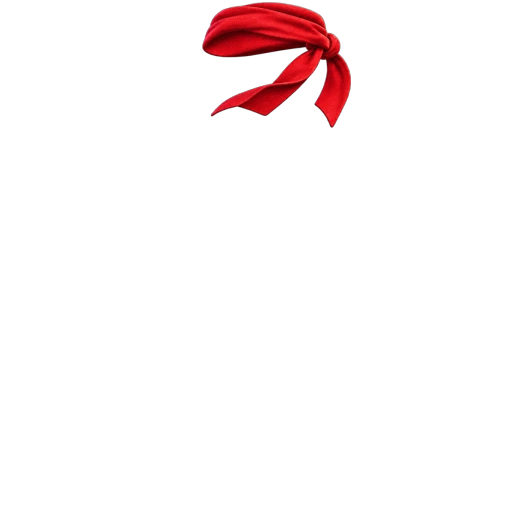
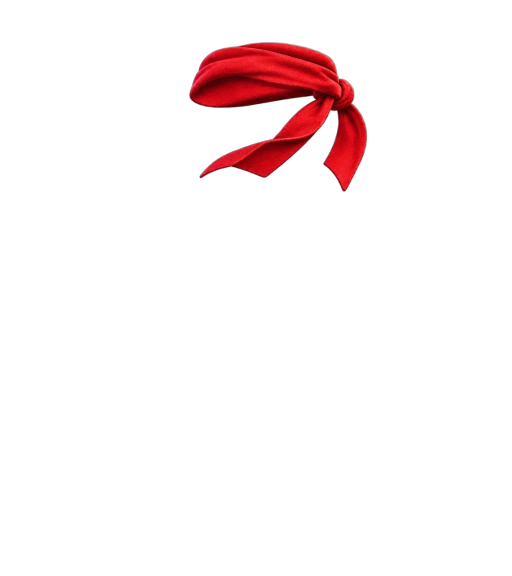
fix: render full-size hats on 512x576 canvas with 64px headroom

Changed region(s): [[0.375, 0.0, 0.7188, 0.3438]]

diff --git a/src/ui.tsx b/src/ui.tsx
@@ -123,7 +123,7 @@ export const PIGEON_SKIN_COLORS: Record<string, string> = {
   "iridescent-oil-slick": "#5e5a67", "skin-18": "#5e5a67", "18": "#5e5a67",
 };
 
-const ASSET_V = "?v=15";
+const ASSET_V = "?v=16";
 
 export function resolveSkinSrc(skin?: string | null): string {
   if (!skin || skin === "common" || skin === "default") {

diff --git a/src/style.css b/src/style.css
@@ -638,6 +638,8 @@ button:disabled {
 
 .pigeon-layer.layer-hat {
   z-index: 60;
+  top: -12.5%;
+  height: 112.5%;
 }
 
 .pigeon-layer.layer-burst {

diff --git a/scripts/build-pigeon-assets.py b/scripts/build-pigeon-assets.py
@@ -54,12 +54,12 @@ EYES_MAPPING = {
 }
 
 
-def save_rgba_webp(rgba: np.ndarray, out_path: Path):
-    """Сохраняет 512x512 RGBA массив в WebP без порчи матовой альфы от rembg."""
+def save_rgba_webp(rgba: np.ndarray, out_path: Path, size: tuple[int, int] = TARGET_SIZE):
+    """Сохраняет RGBA массив в WebP без порчи матовой альфы от rembg."""
     out_path.parent.mkdir(parents=True, exist_ok=True)
     img = Image.fromarray(np.clip(rgba, 0, 255).astype(np.uint8), "RGBA")
-    if img.size != TARGET_SIZE:
-        img = img.resize(TARGET_SIZE, Image.Resampling.LANCZOS)
+    if img.size != size:
+        img = img.resize(size, Image.Resampling.LANCZOS)
     img.save(str(out_path), "WEBP", quality=95, method=4)
 
 
@@ -469,27 +469,28 @@ def extract_accessory_diff(
     return out
 
 
-# Параметры посадки 18 отдельных PNG-шапок на голову эталона 512x512 (cx=301, макушка y=39, брови y=75)
-# (target_w, cx, y_bottom)
+# Параметры посадки 18 отдельных PNG-шапок на голову эталона (cx=301, макушка y=39, брови y=75)
+# Используется расширенный холст 512x576 (64px запас сверху), чтобы высокие шапки были в натуральную величину и не обрезались
+HAT_HEADROOM = 64
 STANDALONE_HAT_FIT: dict[int, tuple[int, int, int]] = {
-    1: (168, 297, 102),  # Чёрная панама
-    2: (162, 310, 98),   # Жёлтая кепка
-    3: (128, 299, 84),   # Золотая корона
-    4: (176, 290, 152),  # Шапка-ушанка
-    5: (162, 308, 96),   # Красная бейсболка
-    6: (172, 276, 128),  # Красная повязка
-    7: (188, 290, 102),  # Шляпа волшебника
-    8: (162, 298, 96),   # Кусок пиццы
-    9: (132, 300, 102),  # Кроличьи ушки
-    10: (126, 300, 52),  # Золотой нимб
-    11: (162, 309, 96),  # Неоновый козырёк
-    12: (142, 294, 96),  # Красная шапка с помпоном
-    13: (154, 308, 96),  # Кепка с пропеллером
-    14: (146, 300, 94),  # Колпак повара
-    15: (184, 298, 98),  # Пиратская треуголка
-    16: (170, 299, 98),  # Зелёная панама-лягушка
-    17: (184, 294, 118), # Колпак шута
-    18: (172, 290, 142), # Шлем авиатора
+    1: (176, 297, 102),  # Чёрная панама
+    2: (168, 310, 98),   # Жёлтая кепка
+    3: (142, 299, 86),   # Золотая корона
+    4: (186, 290, 152),  # Шапка-ушанка
+    5: (168, 308, 96),   # Красная бейсболка
+    6: (178, 278, 128),  # Красная повязка
+    7: (194, 290, 104),  # Шляпа волшебника
+    8: (166, 298, 98),   # Кусок пиццы
+    9: (148, 300, 100),  # Кроличьи ушки
+    10: (132, 300, 50),  # Золотой нимб
+    11: (166, 309, 96),  # Неоновый козырёк
+    12: (156, 294, 98),  # Красная шапка с помпоном
+    13: (166, 308, 96),  # Кепка с пропеллером
+    14: (168, 298, 98),  # Колпак повара
+    15: (188, 298, 98),  # Пиратская треуголка
+    16: (176, 299, 98),  # Зелёная панама-лягушка
+    17: (190, 294, 120), # Колпак шута
+    18: (176, 290, 142), # Шлем авиатора
 }
 
 
@@ -535,33 +536,34 @@ def build_standalone_hats_assets(session):
                 crop = seg_rgba[ys.min():ys.max() + 1, xs.min():xs.max() + 1]
                 ch_c, cw_c = crop.shape[:2]
 
-                target_w, cx_dst, y_bot_dst = STANDALONE_HAT_FIT.get(item_idx, (166, 300, 96))
+                target_w, cx_dst, y_bot_dst = STANDALONE_HAT_FIT.get(item_idx, (168, 300, 98))
                 scale = target_w / max(1, cw_c)
                 new_w = max(1, int(round(cw_c * scale)))
                 new_h = max(1, int(round(ch_c * scale)))
-                # Никогда не обрезаем макушку шапки по y=0: при нехватке места сверху аккуратно масштабируем под доступную высоту
-                if y_bot_dst - new_h < 2:
-                    scale = max(0.1, (y_bot_dst - 2) / max(1, ch_c))
+                # Запас HAT_HEADROOM (64px сверху) позволяет не сжимать высокие шапки
+                if (y_bot_dst + HAT_HEADROOM) - new_h < 2:
+                    scale = max(0.1, (y_bot_dst + HAT_HEADROOM - 2) / max(1, ch_c))
                     new_w = max(1, int(round(cw_c * scale)))
                     new_h = max(1, int(round(ch_c * scale)))
                 resized = cv2.resize(crop, (new_w, new_h), interpolation=cv2.INTER_AREA if scale < 1.0 else cv2.INTER_CUBIC)
 
-                canvas = np.zeros((TARGET_SIZE[1], TARGET_SIZE[0], 4), dtype=np.uint8)
+                hat_size = (TARGET_SIZE[0], TARGET_SIZE[1] + HAT_HEADROOM)
+                canvas = np.zeros((hat_size[1], hat_size[0], 4), dtype=np.uint8)
                 x_dst0 = int(round(cx_dst - new_w / 2.0))
-                y_dst0 = int(round(y_bot_dst - new_h))
+                y_dst0 = int(round(y_bot_dst + HAT_HEADROOM - new_h))
 
-                # Клиппинг по границам холста 512x512
+                # Клиппинг по границам холста 512x576
                 sx0 = max(0, -x_dst0)
                 sy0 = max(0, -y_dst0)
                 dx0 = max(0, x_dst0)
                 dy0 = max(0, y_dst0)
-                dx1 = min(TARGET_SIZE[0], x_dst0 + new_w)
-                dy1 = min(TARGET_SIZE[1], y_dst0 + new_h)
+                dx1 = min(hat_size[0], x_dst0 + new_w)
+                dy1 = min(hat_size[1], y_dst0 + new_h)
                 if dx1 > dx0 and dy1 > dy0:
                     canvas[dy0:dy1, dx0:dx1] = resized[sy0:sy0 + (dy1 - dy0), sx0:sx0 + (dx1 - dx0)]
 
                 out_file = out_slot_dir / f"hats-{item_idx:02d}.webp"
-                save_rgba_webp(canvas, out_file)
+                save_rgba_webp(canvas, out_file, size=hat_size)
                 px = int(np.sum(canvas[:, :, 3] > 20))
                 print(f"  ✓ hats #{item_idx:02d} ({'RGBA' if has_alpha else 'rembg'}): {out_file.name} (пикселей: {px})")
                 item_idx += 1

diff --git a/scripts/test_asset_pipeline.py b/scripts/test_asset_pipeline.py
@@ -66,7 +66,8 @@ def test_accessories_and_layers_present():
             p = OUT_DIR / slot / f"{prefix}-{i:02d}.webp"
             assert p.exists(), f"Отсутствует файл: {p}"
             im = cv2.imread(str(p), cv2.IMREAD_UNCHANGED)
-            assert im.shape == (512, 512, 4), f"Неверный размер {p.name}: {im.shape}"
+            expected_shape = (576, 512, 4) if slot == "hats" else (512, 512, 4)
+            assert im.shape == expected_shape, f"Неверный размер {p.name}: {im.shape}"
             vis_px = int(np.sum(im[:, :, 3] > 20))
             assert vis_px > 1500, f"Слой {p.name} слишком пустой ({vis_px} px)"
 
